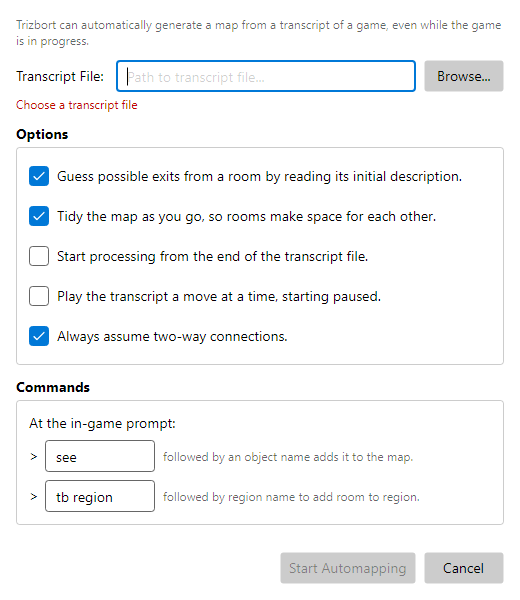
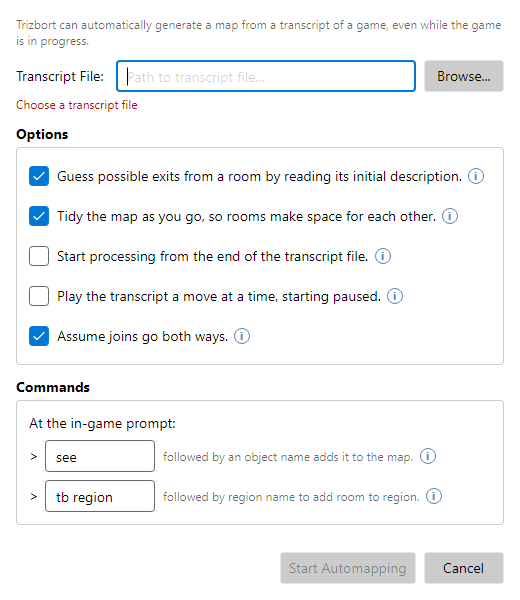
Automapping: Assume joins go both ways, and an (i) beside each option (#63)
* Automapping dialog: Assume joins go both ways, and an (i) beside each option

A reusable InfoTip control: a small circled i whose tooltip says more about
the option beside it (shown on hover, or on focus for the keyboard). The
two-way option is renamed for joins, with J as its shortcut, and explained
in the guide, which didn't cover it.

Claude-Session: https://claude.ai/code/session_01M71nqtdkg44mDABgx1QWjM

* InfoTip: not a dialog's first focus; showing on focus can't fail the dialog

Claude-Session: https://claude.ai/code/session_01M71nqtdkg44mDABgx1QWjM

* Guide: the automapping dialog's screenshot with its info marks

Claude-Session: https://claude.ai/code/session_01M71nqtdkg44mDABgx1QWjM

* InfoTip: the i drawn in the middle of its circle; long options wrap so the (i) fits

The i was a font's letter, nudged up a pixel, so it sat wherever the font put it.
It's now a dot and a stem drawn round the circle's centre. Each option and its (i)
are a two-column grid, so a long label wraps rather than pushing the (i) off the
dialog's edge.

Claude-Session: https://claude.ai/code/session_01M71nqtdkg44mDABgx1QWjM

* AutomapRunSettingsTests: TranslatePoint by its full name

Claude-Session: https://claude.ai/code/session_01M71nqtdkg44mDABgx1QWjM

---------

diff --git a/src/Trizbort.Avalonia/Controls/InfoTip.cs b/src/Trizbort.Avalonia/Controls/InfoTip.cs
@@ -1,0 +1,105 @@
+using Avalonia;
+using Avalonia.Automation;
+using Avalonia.Controls;
+using Avalonia.Controls.Primitives;
+using Avalonia.Layout;
+using Avalonia.Media;
+
+namespace Trizbort.Avalonia.Controls;
+
+/// <summary>
+///   A small ⓘ beside an option: hover over it (or focus it, for the keyboard) for more about the option than its
+///   label says. Lee, 24 Nov 2026.
+/// </summary>
+public class InfoTip : TemplatedControl
+{
+    public static readonly StyledProperty<string?> TextProperty =
+        AvaloniaProperty.Register<InfoTip, string?>(nameof(Text));
+
+    static InfoTip()
+    {
+        FocusableProperty.OverrideDefaultValue<InfoTip>(true);
+        TextProperty.Changed.AddClassHandler<InfoTip>((tip, _) => tip.TextChanged());
+    }
+
+    public InfoTip()
+    {
+        Width = 16;
+        Height = 16;
+        Margin = new Thickness(6, 0, 0, 0);
+        VerticalAlignment = VerticalAlignment.Center;
+        Cursor = new global::Avalonia.Input.Cursor(global::Avalonia.Input.StandardCursorType.Help);
+        ToolTip.SetShowDelay(this, 150);
+        ToolTip.SetBetweenShowDelay(this, 0);
+
+        // drawn rather than a font's "i" or ⓘ, so the i sits in the middle of the circle whatever the font: a
+        // dot and a stem, centred on the circle's centre (8, 8)
+        Template = new global::Avalonia.Controls.Templates.FuncControlTemplate<InfoTip>((tip, _) => new Panel
+        {
+            Children =
+            {
+                new global::Avalonia.Controls.Shapes.Ellipse
+                {
+                    Width = 16,
+                    Height = 16,
+                    StrokeThickness = 1.2,
+                    Fill = Brushes.Transparent,
+                    [!global::Avalonia.Controls.Shapes.Shape.StrokeProperty] = tip[!ForegroundProperty]
+                },
+                new global::Avalonia.Controls.Shapes.Path
+                {
+                    Width = 16,
+                    Height = 16,
+                    Data = Glyph,
+                    [!global::Avalonia.Controls.Shapes.Shape.FillProperty] = tip[!ForegroundProperty]
+                }
+            }
+        });
+        Foreground = new SolidColorBrush(Color.FromRgb(0x5B, 0x7F, 0xB8));
+    }
+
+    /// <summary>The i: a dot (centre 8, 4.85) and a stem (7.1..8.9 by 6.85..12.25): it spans 3.75..12.25, centred
+    ///   on 8.</summary>
+    internal static readonly Geometry Glyph = Geometry.Parse(
+        "M 9.1,4.85 A 1.1,1.1 0 1 1 6.9,4.85 A 1.1,1.1 0 1 1 9.1,4.85 Z M 7.1,6.85 L 8.9,6.85 L 8.9,12.25 L 7.1,12.25 Z");
+
+    /// <summary>What's shown on hover.</summary>
+    public string? Text
+    {
+        get => GetValue(TextProperty);
+        set => SetValue(TextProperty, value);
+    }
+
+    private void TextChanged()
+    {
+        // wrapped, as a paragraph, rather than one long line
+        ToolTip.SetTip(this, new TextBlock { Text = Text, TextWrapping = TextWrapping.Wrap, MaxWidth = 360 });
+        AutomationProperties.SetHelpText(this, Text);
+        AutomationProperties.SetName(this, "More information");
+    }
+
+    // tabbed to: shown, as for the mouse; only where it can be (not in a window with no room for a popup)
+    protected override void OnGotFocus(global::Avalonia.Input.GotFocusEventArgs e)
+    {
+        base.OnGotFocus(e);
+        Show(true);
+    }
+
+    protected override void OnLostFocus(global::Avalonia.Interactivity.RoutedEventArgs e)
+    {
+        base.OnLostFocus(e);
+        Show(false);
+    }
+
+    private void Show(bool open)
+    {
+        try
+        {
+            ToolTip.SetIsOpen(this, open);
+        }
+        catch (InvalidOperationException)
+        {
+            // no popup host (a headless window): the text is still there on hover, and for screen readers
+        }
+    }
+}

diff --git a/src/Trizbort.Avalonia.Tests/AutomapRunSettingsTests.cs b/src/Trizbort.Avalonia.Tests/AutomapRunSettingsTests.cs
@@ -2,6 +2,7 @@ using Avalonia.Controls;
 using Avalonia.Headless;
 using Avalonia.Headless.NUnit;
 using Avalonia.Threading;
+using Avalonia.VisualTree;
 using NUnit.Framework;
 using Shouldly;
 using Trizbort.Automap;
@@ -44,6 +45,55 @@ public class AutomapRunSettingsTests
             dialog.FindControl<CheckBox>("GameScreenCheck").ShouldBeNull();
             dialog.FindControl<CheckBox>("BestGuessCheck").ShouldBeNull();
             dialog.FindControl<CheckBox>("NamesOnlyCheck").ShouldBeNull();
+
+            // Lee, 24 Nov 2026: assume joins go both ways, there while automap runs too; and an (i) beside each option
+            var twoWay = dialog.FindControl<CheckBox>("TwoWayCheck")!;
+            twoWay.IsEffectivelyVisible.ShouldBeTrue();
+            twoWay.Content.ShouldBe("Assume _joins go both ways.");
+            var tips = dialog.GetVisualDescendants().OfType<Trizbort.Avalonia.Controls.InfoTip>()
+                .Where(tip => tip.IsEffectivelyVisible).ToList();
+            // guess exits, tidy, both ways, and the two commands (the transcript's two options are for starting)
+            tips.Count.ShouldBe(5);
+            tips.ShouldAllBe(tip => !string.IsNullOrWhiteSpace(tip.Text));
+            tips.ShouldContain(tip => tip.Text!.Contains("way back"));
+        }
+        finally
+        {
+            dialog.Close();
+        }
+    }
+
+    // Lee, 24 Nov 2026: the (i) beside a long option was off the edge of the dialog; and the i wasn't in the middle
+    // of its circle
+    [AvaloniaTest]
+    public void EveryInfoMark_FitsInTheDialog_EvenAtItsNarrowest()
+    {
+        var vm = new AutomapSettingsViewModel(null!);
+        vm.Initialize(AutomapSettings.Default);
+        var dialog = new AutomapSettingsDialog { DataContext = vm };
+        dialog.Show();
+        try
+        {
+            foreach (var width in new[] { dialog.Width, dialog.MinWidth })
+            {
+                dialog.Width = width;
+                Dispatcher.UIThread.RunJobs();
+                var tips = dialog.GetVisualDescendants().OfType<Trizbort.Avalonia.Controls.InfoTip>()
+                    .Where(tip => tip.IsEffectivelyVisible).ToList();
+                tips.Count.ShouldBe(7);
+                foreach (var tip in tips)
+                {
+                    var corner = global::Avalonia.VisualExtensions.TranslatePoint(tip,
+                        new global::Avalonia.Point(tip.Bounds.Width, tip.Bounds.Height), dialog)!.Value;
+                    corner.X.ShouldBeLessThanOrEqualTo(dialog.ClientSize.Width - 16, $"the (i) for \"{tip.Text}\" at {width}");
+                    tip.Bounds.Width.ShouldBe(16);
+                }
+            }
+
+            // the i drawn in the middle of the 16x16 circle, not a font's letter, which sits where the font puts it
+            var glyph = Trizbort.Avalonia.Controls.InfoTip.Glyph.Bounds;
+            (glyph.X + glyph.Width / 2).ShouldBe(8, 0.01);
+            (glyph.Y + glyph.Height / 2).ShouldBe(8, 0.01);
         }
         finally
         {

diff --git a/src/Trizbort.Avalonia/Views/Dialogs/DialogFocus.cs b/src/Trizbort.Avalonia/Views/Dialogs/DialogFocus.cs
@@ -48,5 +48,6 @@ public static class DialogFocus
         control.Focusable && control.IsTabStop && control.IsEffectivelyVisible && control.IsEffectivelyEnabled;
 
     private static bool IsInput(Control control) =>
-        control is not Button and not TabItem and not ScrollViewer and not Expander && CanFocus(control);
+        control is not Button and not TabItem and not ScrollViewer and not Expander
+            and not Trizbort.Avalonia.Controls.InfoTip && CanFocus(control);
 }

diff --git a/Docs/index.md b/Docs/index.md
@@ -961,6 +961,12 @@ If later in the transcript it turns out that you can't go that way, Trizbort wil
 
 Trizbort can easily make bad guesses here ("To the east is an impassable pile of rubble"); uncheck this option if you prefer.
 
+**Assume joins go both ways.**
+
+On by default. Going north from one room to another, automap also maps south as the way back, before you've tried it: most games' ways do go both ways. If the way back turns out to lead somewhere else (south takes you to a third room, or loops back), automap moves it there. Turn it off for a maze or a game of twisty passages: a join then goes one way until you've gone back along it. You can change it while automap runs, from the ⚙ on the automap panel; it applies from your next move.
+
+Hover over the ⓘ beside an option, in the dialog, for a reminder of what it does.
+
 **Start processing from the end of the transcript file.**
 
 If this item is unchecked, Trizbort will process your whole transcript file, mapping as it goes. If you're automapping onto an existing map, Trizbort will overwrite connections, descriptions, and room names.

diff --git a/changelog.md b/changelog.md
@@ -14,6 +14,9 @@ Recast version numbers start again at 0.9 and follow [semantic versioning](https
 
 ### Changed
 
+- **Always assume two-way connections** in the automapping dialog is now **Assume joins go both ways**, with **J**
+  as its shortcut. Each option in the dialog has an ⓘ: hover over it (or tab to it) for more about what the option
+  does.
 - The automapping dialog is shorter. **Show the game screen** is gone: show or hide it on the automap panel.
   **Label directions in short** is gone: the map's **Direction words** setting draws join labels as you like. **Rooms
   with the same name** is gone: automap always tells such rooms apart by the map and their descriptions, asking when
